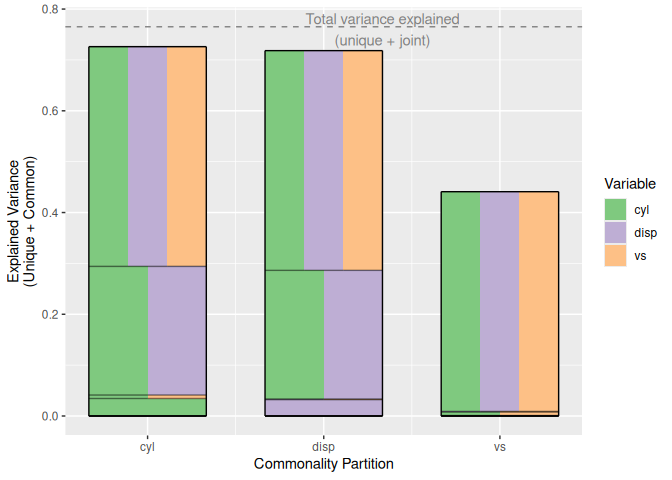
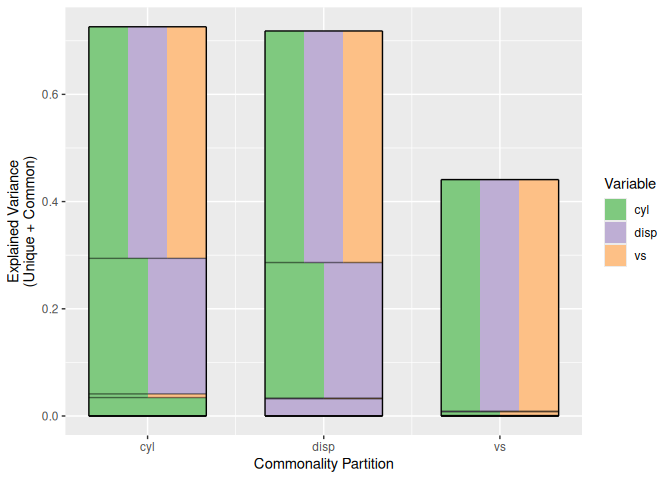
chore: clean files and documnetation, update author info

diff --git a/docs/index.html b/docs/index.html
@@ -57,7 +57,7 @@
   <div class="contents col-md-9">
 
 <div class="section level1">
-<div class="page-header"><h1 id="ggcommonality-">ggcommonality <img src="ggcommonality_sticker.png" align="right"><a class="anchor" aria-label="anchor" href="#ggcommonality-"></a>
+<div class="page-header"><h1 id="ggcommonality-">ggcommonality <img src="man/ggcommonality_sticker.png" align="right"><a class="anchor" aria-label="anchor" href="#ggcommonality-"></a>
 </h1></div>
 <!-- badges: start -->
 <!-- badges: end -->
@@ -97,18 +97,7 @@
 <span>    <span class="st">"#beaed4"</span>,</span>
 <span>    <span class="st">"#fdc086"</span></span>
 <span>    <span class="op">)</span></span>
-<span><span class="op">)</span> <span class="op">+</span></span>
-<span><span class="fu"><a href="https://ggplot2.tidyverse.org/reference/geom_abline.html" class="external-link">geom_hline</a></span><span class="op">(</span></span>
-<span>  yintercept <span class="op">=</span> <span class="fl">0.7652</span>,</span>
-<span>  linetype <span class="op">=</span> <span class="st">"dashed"</span>,</span>
-<span>  color <span class="op">=</span> <span class="st">"grey50"</span></span>
-<span>  <span class="op">)</span> <span class="op">+</span> <span class="co"># adding total explained variance</span></span>
-<span><span class="fu"><a href="https://ggplot2.tidyverse.org/reference/annotate.html" class="external-link">annotate</a></span><span class="op">(</span></span>
-<span>  geom<span class="op">=</span><span class="st">"text"</span>, </span>
-<span>  x<span class="op">=</span><span class="fl">5</span> , y<span class="op">=</span> <span class="fl">.76</span>, </span>
-<span>  label<span class="op">=</span><span class="st">"Total variance explained\n(unique + joint)"</span>,</span>
-<span>  color<span class="op">=</span><span class="st">"grey50"</span></span>
-<span><span class="op">)</span></span></code></pre></div>
+<span><span class="op">)</span> </span></code></pre></div>
 <p><img src="reference/figures/README-unnamed-chunk-2-1.png" width="100%"></p>
 <p>We can compare the bar plot output to the unique and common effects from the model:</p>
 <div class="sourceCode" id="cb4"><pre class="downlit sourceCode r">
@@ -170,7 +159,7 @@
 </tr>
 </tbody>
 </table>
-<p>To get the x and y coordinates passed to <code><a href="https://ggplot2.tidyverse.org/reference/geom_tile.html" class="external-link">geom_rect()</a></code> when making the plot, you can use the following line of code, which returns a list with (1) the data frame used to create the barplot for positive commonalities (from xmin, xmax, ymin, and ymax coordinates); (2) the data frame used to create the black outline for the positive effects; (3) the data frame used to create the barplot for negative commonalities; and (4) the data frame used to create the black outline for the negative effects.</p>
+<p>To get the x and y coordinates passed to <code><a href="https://ggplot2.tidyverse.org/reference/geom_tile.html" class="external-link">geom_rect()</a></code> when making the plot, you can use the <code><a href="reference/df_ggcommonality.html">df_ggcommonality()</a></code> function, which returns a list with (1) the data frame used to create the barplot for positive commonalities (from xmin, xmax, ymin, and ymax coordinates); (2) the data frame used to create the black outline for the positive effects; (3) the data frame used to create the barplot for negative commonalities; and (4) the data frame used to create the black outline for the negative effects.</p>
 <div class="sourceCode" id="cb5"><pre class="downlit sourceCode r">
 <code class="sourceCode R"><span><span class="va">df_commonality</span> <span class="op">&lt;-</span> <span class="fu"><a href="reference/df_ggcommonality.html">df_ggcommonality</a></span><span class="op">(</span></span>
 <span>  formula <span class="op">=</span> <span class="va">mpg</span> <span class="op">~</span> <span class="va">cyl</span> <span class="op">+</span> <span class="va">disp</span> <span class="op">+</span> <span class="va">vs</span>,</span>
@@ -246,7 +235,7 @@
 <span></span>
 <span><span class="va">lm_cars</span> <span class="op">&lt;-</span> <span class="va">mpg</span> <span class="op">~</span> <span class="va">cyl</span> <span class="op">+</span> <span class="va">disp</span> <span class="op">+</span> <span class="va">vs</span></span>
 <span></span>
-<span><span class="va">p</span> <span class="op">&lt;-</span> <span class="va">p</span> <span class="op">+</span> <span class="fu"><a href="https://ggplot2.tidyverse.org/reference/ggtheme.html" class="external-link">theme_void</a></span><span class="op">(</span><span class="op">)</span> <span class="op">+</span> <span class="fu"><a href="https://ggplot2.tidyverse.org/reference/lims.html" class="external-link">ylim</a></span><span class="op">(</span><span class="fl">0</span>, <span class="fl">1.2</span><span class="op">)</span></span>
+<span><span class="va">p</span> <span class="op">&lt;-</span> <span class="va">p</span> <span class="op">+</span> <span class="fu"><a href="https://ggplot2.tidyverse.org/reference/ggtheme.html" class="external-link">theme_void</a></span><span class="op">(</span><span class="op">)</span> <span class="op">+</span> <span class="fu"><a href="https://ggplot2.tidyverse.org/reference/lims.html" class="external-link">ylim</a></span><span class="op">(</span><span class="fl">0</span>, <span class="fl">1.2</span><span class="op">)</span> <span class="op">+</span> <span class="fu"><a href="https://ggplot2.tidyverse.org/reference/theme.html" class="external-link">theme</a></span><span class="op">(</span>legend.position <span class="op">=</span> <span class="st">'none'</span><span class="op">)</span></span>
 <span></span>
 <span><span class="va">ci_random</span> <span class="op">&lt;-</span> <span class="va">p</span> <span class="op">+</span></span>
 <span>  <span class="fu"><a href="reference/ci_ggcommonality.html">ci_ggcommonality</a></span><span class="op">(</span></span>
@@ -255,8 +244,7 @@
 <span>     n_replications <span class="op">=</span> <span class="fl">100</span>,</span>
 <span>    resample_type <span class="op">=</span> <span class="st">"random"</span></span>
 <span><span class="op">)</span> <span class="op">+</span></span>
-<span>  <span class="fu"><a href="https://ggplot2.tidyverse.org/reference/labs.html" class="external-link">labs</a></span><span class="op">(</span>title <span class="op">=</span> <span class="st">"Random-x"</span><span class="op">)</span> <span class="op">+</span></span>
-<span>  <span class="fu"><a href="https://ggplot2.tidyverse.org/reference/ggtheme.html" class="external-link">theme_classic</a></span><span class="op">(</span><span class="op">)</span></span>
+<span>  <span class="fu"><a href="https://ggplot2.tidyverse.org/reference/labs.html" class="external-link">labs</a></span><span class="op">(</span>subtitle <span class="op">=</span> <span class="st">"Random-x"</span><span class="op">)</span></span>
 <span></span>
 <span></span>
 <span><span class="va">ci_fixed</span> <span class="op">&lt;-</span> <span class="va">p</span> <span class="op">+</span></span>
@@ -265,7 +253,7 @@
 <span>     data <span class="op">=</span> <span class="va">mtcars</span>,</span>
 <span>     n_replications <span class="op">=</span> <span class="fl">100</span>,</span>
 <span>    resample_type <span class="op">=</span> <span class="st">"fixed"</span></span>
-<span><span class="op">)</span> <span class="op">+</span></span>
+<span><span class="op">)</span><span class="op">+</span></span>
 <span>  <span class="fu"><a href="https://ggplot2.tidyverse.org/reference/labs.html" class="external-link">labs</a></span><span class="op">(</span>subtitle <span class="op">=</span> <span class="st">"Fixed-x"</span><span class="op">)</span> </span>
 <span></span>
 <span><span class="va">ci_gaussian</span> <span class="op">&lt;-</span> <span class="va">p</span> <span class="op">+</span></span>
@@ -287,9 +275,13 @@
 <span><span class="op">)</span><span class="op">+</span></span>
 <span>  <span class="fu"><a href="https://ggplot2.tidyverse.org/reference/labs.html" class="external-link">labs</a></span><span class="op">(</span>subtitle <span class="op">=</span> <span class="st">"Wild (sign)"</span><span class="op">)</span> </span>
 <span></span>
-<span><span class="op">(</span><span class="va">ci_random</span><span class="op">|</span><span class="va">ci_fixed</span><span class="op">|</span><span class="va">ci_gaussian</span><span class="op">|</span><span class="va">ci_sign</span><span class="op">)</span> <span class="op">+</span></span>
-<span>  <span class="fu"><a href="https://patchwork.data-imaginist.com/reference/plot_layout.html" class="external-link">plot_layout</a></span><span class="op">(</span>guides <span class="op">=</span> <span class="st">"collect"</span><span class="op">)</span></span></code></pre></div>
-<p><img src="reference/figures/README-unnamed-chunk-4-1.png" width="100%"> # Stack by unique vs. common effects</p>
+<span><span class="op">(</span><span class="va">ci_random</span><span class="op">|</span><span class="va">ci_fixed</span><span class="op">|</span><span class="va">ci_gaussian</span><span class="op">|</span><span class="va">ci_sign</span><span class="op">)</span></span></code></pre></div>
+<p><img src="reference/figures/README-unnamed-chunk-4-1.png" width="100%"></p>
+</div>
+</div>
+<div class="section level1">
+<h1 id="stack-by-unique-vs-common-effects">Stack by unique vs. common effects<a class="anchor" aria-label="anchor" href="#stack-by-unique-vs-common-effects"></a>
+</h1>
 <div class="sourceCode" id="cb7"><pre class="downlit sourceCode r">
 <code class="sourceCode R"><span><span class="va">p2</span> <span class="op">&lt;-</span> <span class="fu"><a href="reference/ggcommonality.html">ggcommonality</a></span><span class="op">(</span></span>
 <span>  <span class="va">lm_cars</span>,</span>
@@ -309,7 +301,6 @@
 <span>    alpha <span class="op">=</span> <span class="fl">0.5</span></span>
 <span><span class="op">)</span> </span></code></pre></div>
 <p><img src="reference/figures/README-unnamed-chunk-5-1.png" width="100%"></p>
-</div>
 </div>
 <div class="section level1">
 <h1 id="references">References<a class="anchor" aria-label="anchor" href="#references"></a>
@@ -349,7 +340,8 @@ Nimon, Kim, Fred Oswald, and J. Kyle Roberts. 2023. <em>Yhat: Interpreting Regre
 <div class="developers">
 <h2 data-toc-skip>Developers</h2>
 <ul class="list-unstyled">
-<li>Cameron J. Anderson <br><small class="roles"> Maintainer </small>  </li>
+<li>Cameron J. Anderson <br><small class="roles"> Author, maintainer </small> <a href="https://orcid.org/0000-0002-8737-2055" target="orcid.widget" aria-label="ORCID" class="external-link"><span class="fab fa-orcid orcid" aria-hidden="true"></span></a> </li>
+<li>Michael Schutz <br><small class="roles"> Author </small> <a href="https://orcid.org/0000-0002-6882-5928" target="orcid.widget" aria-label="ORCID" class="external-link"><span class="fab fa-orcid orcid" aria-hidden="true"></span></a> </li>
 </ul>
 </div>
 
@@ -361,7 +353,7 @@ Nimon, Kim, Fred Oswald, and J. Kyle Roberts. 2023. <em>Yhat: Interpreting Regre
 
       <footer><div class="copyright">
   <p></p>
-<p>Developed by Cameron J. Anderson.</p>
+<p>Developed by Cameron J. Anderson, Michael Schutz.</p>
 </div>
 
 <div class="pkgdown">

diff --git a/docs/authors.html b/docs/authors.html
@@ -40,7 +40,11 @@
 
 
       <ul class="list-unstyled"><li>
-          <p><strong>Cameron J. Anderson</strong>. Maintainer.
+          <p><strong>Cameron J. Anderson</strong>. Author, maintainer. <a href="https://orcid.org/0000-0002-8737-2055" target="orcid.widget" aria-label="ORCID" class="external-link"><span class="fab fa-orcid orcid" aria-hidden="true"></span></a>
+          </p>
+        </li>
+        <li>
+          <p><strong>Michael Schutz</strong>. Author. <a href="https://orcid.org/0000-0002-6882-5928" target="orcid.widget" aria-label="ORCID" class="external-link"><span class="fab fa-orcid orcid" aria-hidden="true"></span></a>
           </p>
         </li>
       </ul></div>
@@ -52,13 +56,13 @@
     </div>
 
 
-    <p>Anderson CJ (2025).
+    <p>Anderson C, Schutz M (2025).
 <em>ggcommonality: Bar Plot of Commonality Analysis Coefficients in ggplot2</em>.
 R package version 0.2.0.
 </p>
     <pre>@Manual{,
   title = {ggcommonality: Bar Plot of Commonality Analysis Coefficients in ggplot2},
-  author = {Cameron J. Anderson},
+  author = {Cameron J. Anderson and Michael Schutz},
   year = {2025},
   note = {R package version 0.2.0},
 }</pre>
@@ -70,7 +74,7 @@ R package version 0.2.0.
 
 
       <footer><div class="copyright">
-  <p></p><p>Developed by Cameron J. Anderson.</p>
+  <p></p><p>Developed by Cameron J. Anderson, Michael Schutz.</p>
 </div>
 
 <div class="pkgdown">

diff --git a/docs/reference/index.html b/docs/reference/index.html
@@ -58,10 +58,6 @@
         </td>
         <td><p>Define XY coordinates for drawing commonality bar plots</p></td>
       </tr><tr><td>
-          <p><code><a href="dot-df_ci_commonality.html">.df_ci_commonality()</a></code> </p>
-        </td>
-        <td><p>Make scatterpie commonality line range plots</p></td>
-      </tr><tr><td>
           <p><code><a href="dot-helper_define_x_coordinates.html">.helper_define_x_coordinates()</a></code> </p>
         </td>
         <td><p>Define X and Y coordinates for building commonality barplot</p></td>
@@ -122,7 +118,7 @@
 
 
       <footer><div class="copyright">
-  <p></p><p>Developed by Cameron J. Anderson.</p>
+  <p></p><p>Developed by Cameron J. Anderson, Michael Schutz.</p>
 </div>
 
 <div class="pkgdown">

diff --git a/docs/reference/dot-helper_define_x_coordinates.html b/docs/reference/dot-helper_define_x_coordinates.html
@@ -86,7 +86,7 @@ if "partition" is the input. Otherwise it stacks unique vs joint effects.</p></d
 
 
       <footer><div class="copyright">
-  <p></p><p>Developed by Cameron J. Anderson.</p>
+  <p></p><p>Developed by Cameron J. Anderson, Michael Schutz.</p>
 </div>
 
 <div class="pkgdown">

diff --git a/docs/reference/dot-helper_define_y_coordinates.html b/docs/reference/dot-helper_define_y_coordinates.html
@@ -73,7 +73,7 @@ if "partition" is the input. Otherwise it stacks unique vs joint effects.</p></d
 
 
       <footer><div class="copyright">
-  <p></p><p>Developed by Cameron J. Anderson.</p>
+  <p></p><p>Developed by Cameron J. Anderson, Michael Schutz.</p>
 </div>
 
 <div class="pkgdown">

diff --git a/docs/reference/dot-helper_split_partition_effects.html b/docs/reference/dot-helper_split_partition_effects.html
@@ -79,7 +79,7 @@ Names column should include a consistent splitter between variable names.</p></d
 
 
       <footer><div class="copyright">
-  <p></p><p>Developed by Cameron J. Anderson.</p>
+  <p></p><p>Developed by Cameron J. Anderson, Michael Schutz.</p>
 </div>
 
 <div class="pkgdown">

diff --git a/docs/reference/dot-helper_format_yhat_commonality.html b/docs/reference/dot-helper_format_yhat_commonality.html
@@ -74,7 +74,7 @@ Formatted in data.frame compatible with commonalitybarplot functions.</p>
 
 
       <footer><div class="copyright">
-  <p></p><p>Developed by Cameron J. Anderson.</p>
+  <p></p><p>Developed by Cameron J. Anderson, Michael Schutz.</p>
 </div>
 
 <div class="pkgdown">

diff --git a/docs/reference/ggcommonality.html b/docs/reference/ggcommonality.html
@@ -93,7 +93,7 @@ Variance attributable to two variables appears in partition for both.</p>
 
 
       <footer><div class="copyright">
-  <p></p><p>Developed by Cameron J. Anderson.</p>
+  <p></p><p>Developed by Cameron J. Anderson, Michael Schutz.</p>
 </div>
 
 <div class="pkgdown">

diff --git a/docs/reference/dot-helper_draw_barplot_outline.html b/docs/reference/dot-helper_draw_barplot_outline.html
@@ -82,7 +82,7 @@ Required for plotting positive and negative barplot effects.</p></dd>
 
 
       <footer><div class="copyright">
-  <p></p><p>Developed by Cameron J. Anderson.</p>
+  <p></p><p>Developed by Cameron J. Anderson, Michael Schutz.</p>
 </div>
 
 <div class="pkgdown">

diff --git a/docs/reference/dot-helper_duplicate_inner_values.html b/docs/reference/dot-helper_duplicate_inner_values.html
@@ -74,7 +74,7 @@ Used when defining common effect bar width.</p>
 
 
       <footer><div class="copyright">
-  <p></p><p>Developed by Cameron J. Anderson.</p>
+  <p></p><p>Developed by Cameron J. Anderson, Michael Schutz.</p>
 </div>
 
 <div class="pkgdown">

diff --git a/docs/reference/dot-helper_seq_from_1_to_2_by.html b/docs/reference/dot-helper_seq_from_1_to_2_by.html
@@ -73,7 +73,7 @@ Function applied across an array of values.</p>
 
 
       <footer><div class="copyright">
-  <p></p><p>Developed by Cameron J. Anderson.</p>
+  <p></p><p>Developed by Cameron J. Anderson, Michael Schutz.</p>
 </div>
 
 <div class="pkgdown">

diff --git a/docs/404.html b/docs/404.html
@@ -73,7 +73,7 @@ Content not found. Please use links in the navbar.
 
       <footer><div class="copyright">
   <p></p>
-<p>Developed by Cameron J. Anderson.</p>
+<p>Developed by Cameron J. Anderson, Michael Schutz.</p>
 </div>
 
 <div class="pkgdown">
